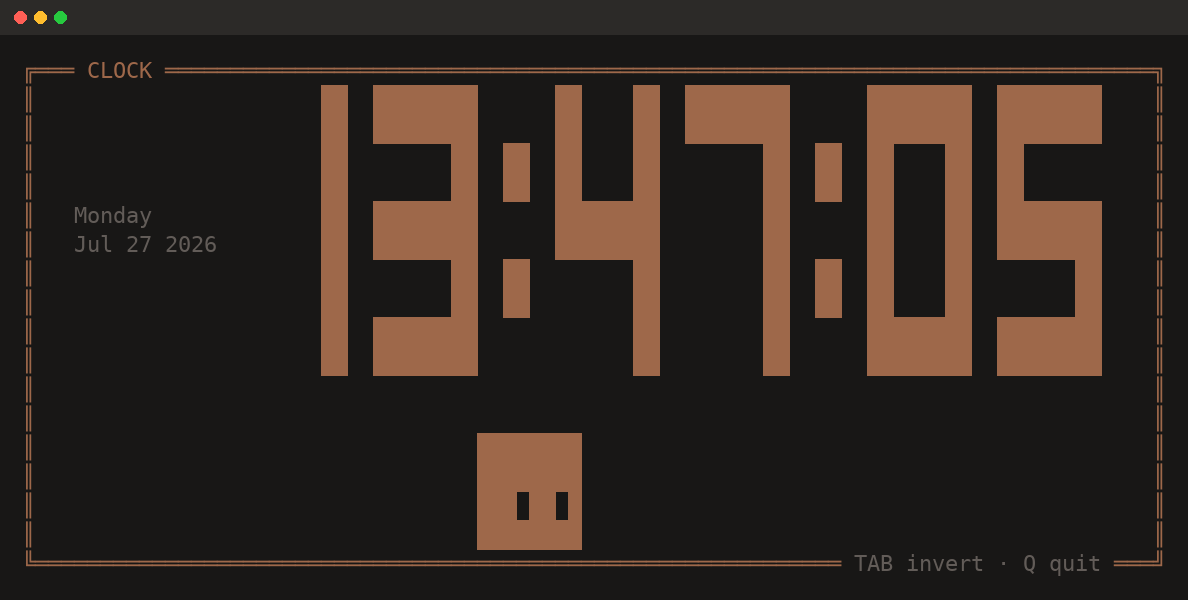
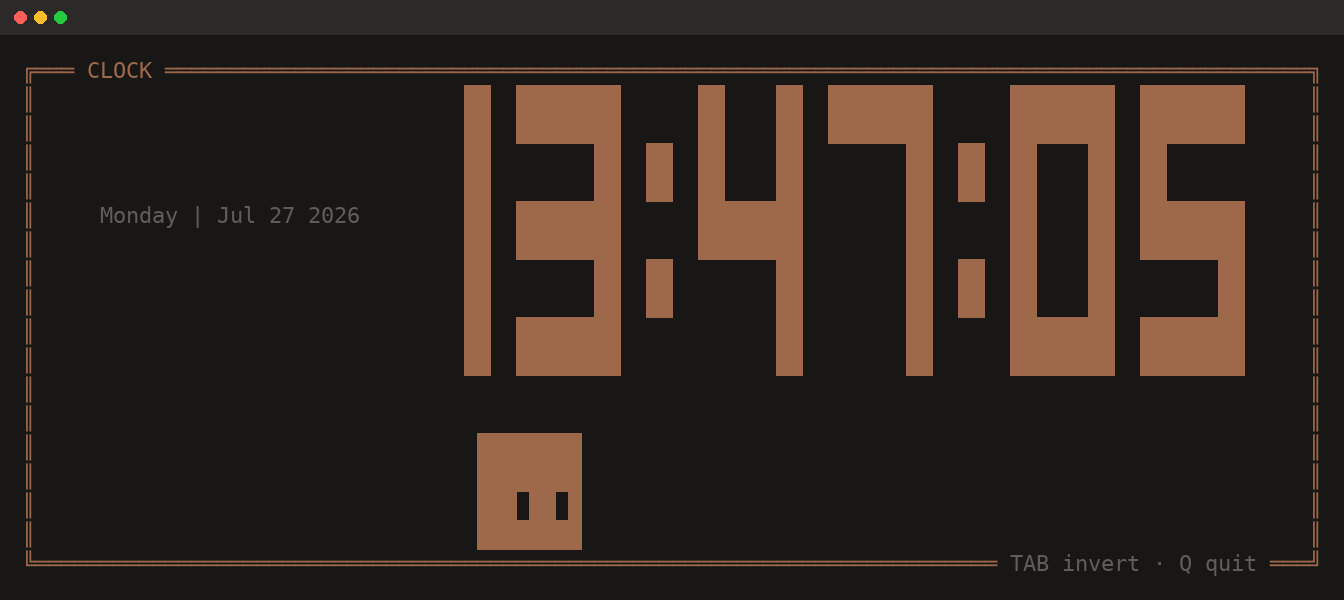
Keep the clock's date on one line until space runs out
It was always stacked over two lines. It now stays on a single
"Monday | Jul 27 2026" for as long as it fits, wraps onto two lines only
when that no longer does, and gives up wording — first the year, then the
full weekday — only after wrapping.

diff --git a/lib/render.js b/lib/render.js
@@ -236,7 +236,10 @@ function renderFrame({
     const noYear = rest.replace(/ \d{4}$/, ''); // Jul 27
     // Progressively shorter forms, each dropping the least useful part first:
     // the year, then the full weekday name.
+    // Kept on one line for as long as it fits; wrapped onto two before any of
+    // the wording is given up, and only then shortened.
     const candidates = [
+      [`${weekday} | ${rest}`], // Monday | Jul 27 2026
       [weekday, rest], // Monday / Jul 27 2026
       [weekday, noYear], // Monday / Jul 27
       [weekday.slice(0, 3), noYear], // Mon / Jul 27

diff --git a/README.md b/README.md
@@ -166,11 +166,13 @@ follows the clock straight through a suspend or a manual time change.
 ![Clock](docs/clock.png)
 
 The date takes only the width left spare beside the digits, so it never costs
-the clock a size step, and it shortens as the terminal narrows:
+the clock a size step. As the terminal narrows it stays on one line for as
+long as it fits, then wraps onto two before any of the wording is given up,
+and only then shortens:
 
 ```
-Monday        Monday      Mon
-Jul 27 2026   Jul 27      Jul 27
+Monday | Jul 27 2026     Monday        Monday      Mon
+                         Jul 27 2026   Jul 27      Jul 27
 ```
 
 Below that it is dropped rather than shrinking the clock.
